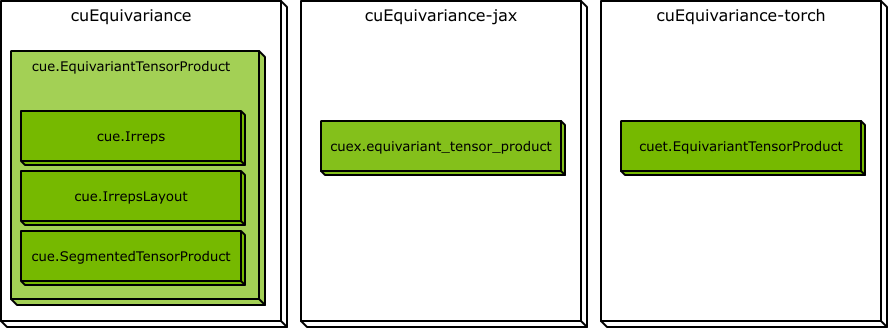
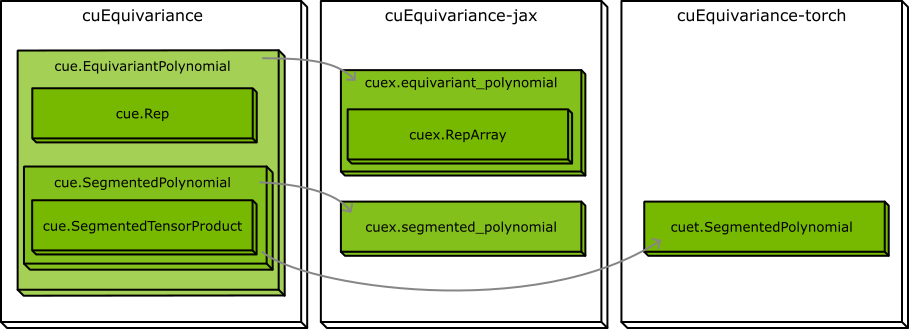
update main page

diff --git a/docs/index.rst b/docs/index.rst
@@ -71,8 +71,16 @@ cuEquivariance is split into three packages:
    :alt: Main components of cuEquivariance
    :align: center
 
-Most tensor products are defined using the :class:`cue.EquivariantTensorProduct <cuequivariance.EquivariantTensorProduct>` class, which encapsulates the :class:`cue.Irreps <cuequivariance.Irreps>` and :class:`cue.IrrepsLayout <cuequivariance.IrrepsLayout>` for each input and the output. It also includes one or more instances of :class:`cue.SegmentedTensorProduct <cuequivariance.SegmentedTensorProduct>`, which define the tensor product operations.
-This descriptor is then used to create a :class:`cuet.EquivariantTensorProduct <cuequivariance_torch.EquivariantTensorProduct>` module, which can be used in PyTorch models. Or used to execute the tensor product operations using :class:`cuex.equivariant_polynomial <cuequivariance_jax.equivariant_polynomial>` in JAX.
+Most tensor products are defined using a hierarchy of components:
+
+* :class:`cue.EquivariantPolynomial <cuequivariance.EquivariantPolynomial>` - Encapsulates the :class:`cue.Rep <cuequivariance.Rep>` for each input and the output
+* :class:`cue.SegmentedPolynomial <cuequivariance.SegmentedPolynomial>` - Included in the EquivariantPolynomial, composed of one or several tensor products
+* :class:`cue.SegmentedTensorProduct <cuequivariance.SegmentedTensorProduct>` - Defines the specific tensor product operations
+
+This descriptor can then be used in two ways:
+
+* In PyTorch: Create a :class:`cuet.SegmentedPolynomial <cuequivariance_torch.SegmentedPolynomial>` module for use in models
+* In JAX: Execute using :class:`cuex.equivariant_polynomial <cuequivariance_jax.equivariant_polynomial>` or :class:`cuex.segmented_polynomial <cuequivariance_jax.segmented_polynomial>`
 
 Tutorials
 ---------
